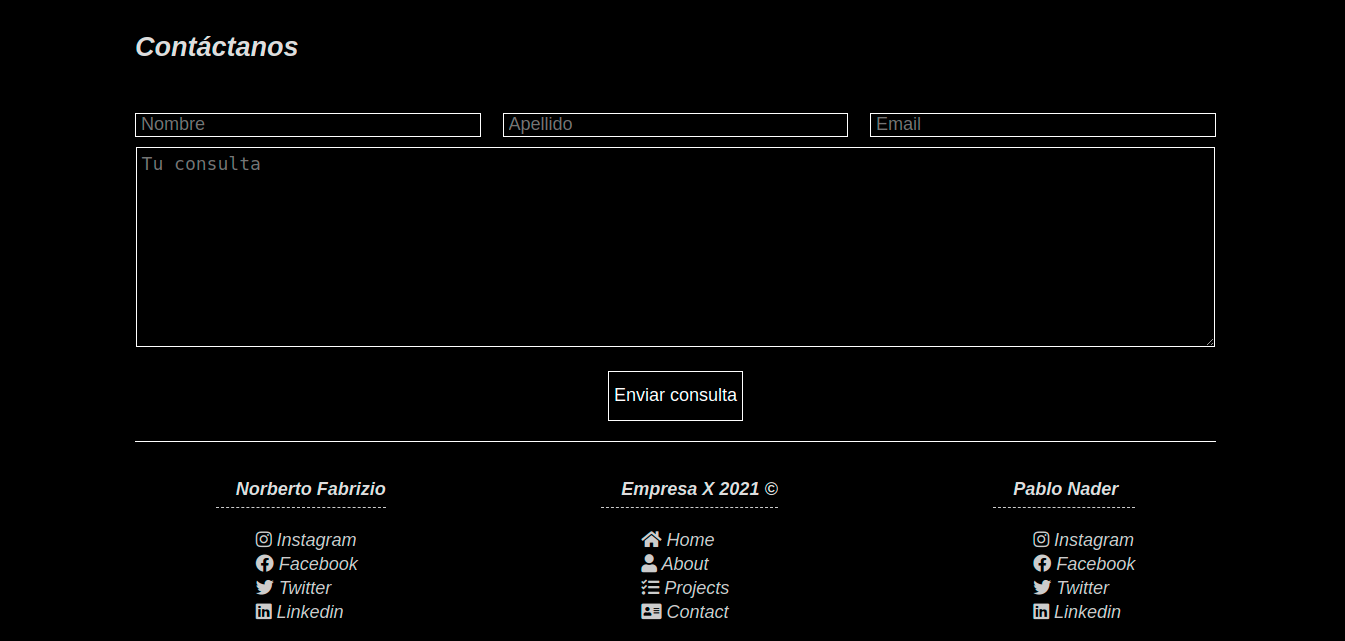
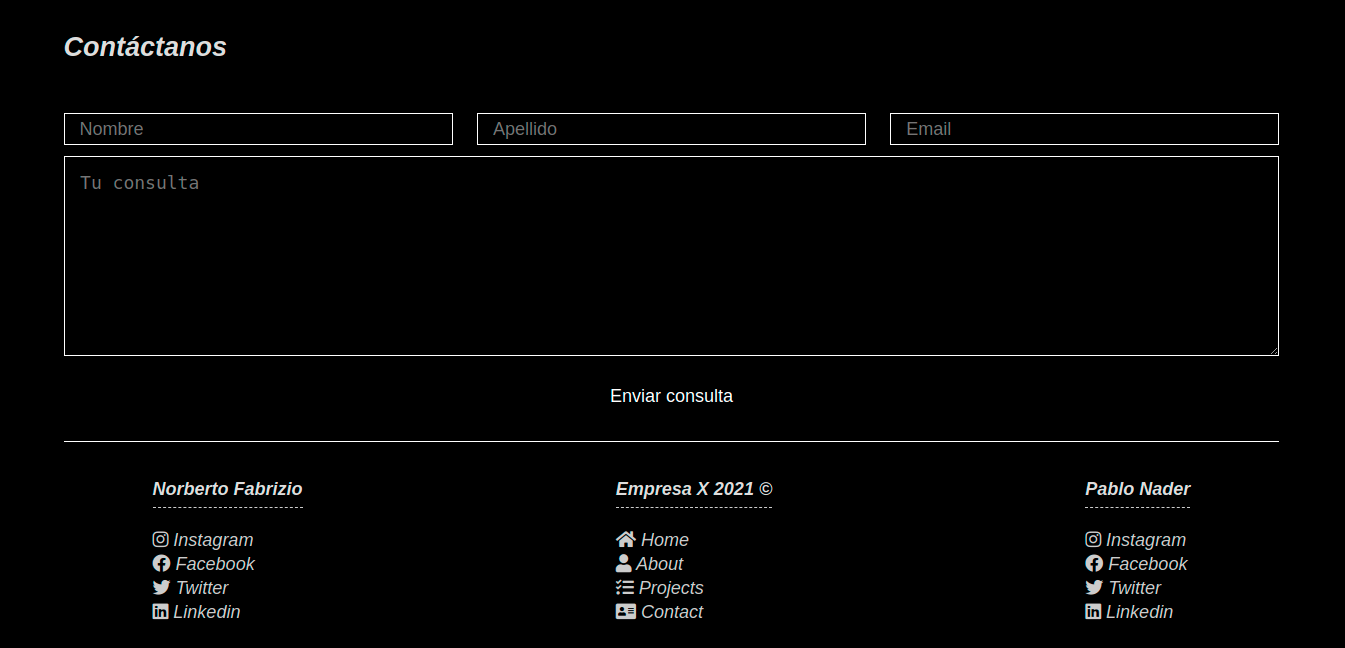
V1.1.0

diff --git a/index.html b/index.html
@@ -18,7 +18,7 @@
 </head>
 <body>
 	<div class="contenedor">
-		<!-- nav -->
+		<!-- header -->
 		<header class="header">
 			<nav class="navegacion">
 				<ul>
@@ -27,14 +27,21 @@
 							<img src="img/logo.png" alt="logo">
 						</a>
 					</li>
-					<li><a href="index.html">Home</a></li>
+					<li><a href="#home">Home</a></li>
 					<li><a href="#about">About</a></li>
 					<li><a href="#projects">Projects</a></li>
+					<li><a href="#cards">Cards</a></li>
 					<li><a href="#contact">Contact</a></li>
 				</ul>
 			</nav>
-			<div class="home">
-				<img src="img/code.jpg" alt="Homepage">
+			<div class="home" id="home">
+				<div class="jumbotron"></div>
+				<div class="suscripcion">
+					<form class="formulario-suscripcion" id="subscriptionform" autocomplete="off">
+						<input class="input-suscripcion" type="email" id="email-suscripcion" placeholder="Email" required>
+						<button class="btn-suscripcion" type="submit" id="suscribirse">Suscribirme</button>
+					</form>
+				</div>
 			</div>
 		</header>
 		<!-- about -->
@@ -76,7 +83,7 @@
 		</section>
 		<!-- cards -->
 		<section class="tarjetas" id="cards">
-			<h2>Cards</h2>
+			<h2>Tarjetas</h2>
 			<div class="cards-box">
 				<div class="card">
 					<div class="card-header">
@@ -129,25 +136,25 @@
 			<h2>Contáctanos</h2>
 			<form class="formulario" id="queryform" autocomplete="off">
 				<div class="campo">
-					<input class="input" type="text" placeholder="Nombre" required id="username">
+					<input class="query-input" type="text" placeholder="Nombre" required id="username">
 				</div>
 				<div class="campo">
-					<input class="input" type="text" placeholder="Apellido" required id="userlastname">
+					<input class="query-input" type="text" placeholder="Apellido" required id="userlastname">
 				</div>
 				<div class="campo">
-					<input class="input" type="email" placeholder="Email" required id="useremail">
+					<input class="query-input" type="email" placeholder="Email" required id="useremail">
 				</div>
 				<div class="campo-textarea">
-					<textarea class="textarea" name="consulta" id="userquery" cols="30" rows="10" placeholder="Tu consulta" required></textarea>
+					<textarea class="query-textarea" name="consulta" id="userquery" cols="30" rows="10" placeholder="Tu consulta" required></textarea>
 				</div>
-				<div class="boton">
-					<button type="submit" id="sendform">Enviar consulta</button>
+				<div class="campo-enviar">
+					<button class="btn-consulta" type="submit" id="sendform">Enviar consulta</button>
 				</div>
 			</form>
 		</section>
 		<!-- footer -->
 		<footer class="footer" id="footer">
-			<div>
+			<div class="company-info">
 				<ul class="footer-list">
 					<li> Norberto Fabrizio</li>
 					<li> 
@@ -172,7 +179,7 @@
 					</li>
 				</ul>
 			</div>
-			<div>
+			<div class="company-info">
 				<ul class="footer-list">
 					<li> Empresa X 2021 &copy;</li>
 					<li> 
@@ -197,7 +204,7 @@
 					</li>
 				</ul>
 			</div>
-			<div>
+			<div class="company-info">
 				<ul class="footer-list">
 					<li> Pablo Nader</li>
 					<li> 

diff --git a/js/main.js b/js/main.js
@@ -1,11 +1,20 @@
 document.addEventListener('DOMContentLoaded', () => {
-  const formulario = document.querySelector('#queryform')
-  if (formulario) {
+  const queryForm = document.querySelector('#queryform')
+  const subsForm = document.querySelector('#subscriptionform')
+  const noRef = document.querySelectorAll('a[href="#"]')
+  if (noRef) {
+    Array.from(noRef).forEach(anchor => {
+      anchor.addEventListener('click', e => {
+        e.preventDefault()
+      })
+    })
+  }
+  if (queryForm) {
     const username = document.querySelector('#username')
     const userlastname = document.querySelector('#userlastname')
     const useremail = document.querySelector('#useremail')
     const userquery = document.querySelector('#userquery')
-    formulario.addEventListener('submit', e => {
+    queryForm.addEventListener('submit', e => {
       e.preventDefault()
       if (username.value.trim() === '' ||
           userlastname.value.trim() === '' ||
@@ -14,13 +23,28 @@ document.addEventListener('DOMContentLoaded', () => {
         alert('Los campos no debe quedar vacíos')
       } else {
         const btnSend = document.querySelector('#sendform')
-        btnSend.style.width = '150px'
-        btnSend.innerHTML = 'Enviando su consulta...'
+        btnSend.innerHTML = 'Enviando...'
         setTimeout(() => {
           btnSend.setAttribute('disabled', 'true')
-          btnSend.style.width = '250px'
-          btnSend.innerHTML = 'Consulta enviada. <br>¡Muchas gracias!'
-          formulario.reset()
+          btnSend.innerHTML = '¡Consulta enviada!'
+          queryForm.reset()
+        }, 3000)
+      }
+    })
+  }
+  if (subsForm) {
+    const usersubemail = document.querySelector('#email-suscripcion')
+    subsForm.addEventListener('submit', e => {
+      e.preventDefault()
+      if (usersubemail.value.trim() === '') {
+        alert('Ingresa tu email para poder suscribirte')
+      } else {
+        const btnSend = document.querySelector('#suscribirse')
+        btnSend.innerHTML = 'Registrándo...'
+        setTimeout(() => {
+          btnSend.setAttribute('disabled', 'true')
+          btnSend.innerHTML = '¡Suscrito!'
+          subsForm.reset()
         }, 3000)
       }
     })

diff --git a/css/contact.css b/css/contact.css
@@ -1,5 +1,5 @@
 /* contacto */
-form {
+.formulario {
   display: flex;
   justify-content: space-between;
   flex-wrap: wrap;
@@ -13,45 +13,44 @@ form {
   margin-top: 10px;
 }
 
-input,
-textarea,
-button {
-  font-size: 18px;
+.campo-enviar {
+  margin: 10px auto 0 auto;
+}
+
+.query-input,
+.query-textarea {
+  padding: 15px;
   height: 24px;
-  padding: 5px;
   color: #fff;
   background-color: transparent;
   border: 1px solid #fff;
   width: 100%;
-  border-radius: 0;
 }
 
-input:focus-visible, 
-textarea:focus-visible {
+.query-input:focus-visible, 
+.query-textarea:focus-visible {
   outline: 2px solid #fff;
   border-radius: 0;
 }
 
-textarea {
- min-height: 200px;
+.query-textarea {
+  min-height: 200px;
 }
 
-.boton {
-  margin:auto;
-  margin-top: 20px;
-}
-
-.boton>button {
-  margin:auto;
+.btn-consulta {
+  margin: auto;
   height: 50px;
   min-width: 100px;
+  padding: 10px;
+  transition: all .3s ease;
+  color: #fff;
+  background-color: transparent;
 }
 
-.boton>button:hover {
-  outline: 2px solid #fff;
-  font-weight: bold;
+.btn-consulta:hover {
   cursor: pointer;
-  background-color: rgb(255, 255, 255, .1);
+  color: #fff;
+  background-color: orangered;
 }
 
 /* media queries */

diff --git a/css/nav.css b/css/nav.css
@@ -3,7 +3,6 @@ nav {
   width: 100%;
   background-color: orangered;
   padding: 15px 0;
-  text-align: center;
 }
 
 .navegacion>ul {
@@ -17,6 +16,48 @@ nav {
   margin: auto;
   list-style-type: none;
   font-size: 1.2rem;
+}
+
+/* jumbotron */
+.home {
+  position: relative;
+}
+
+.jumbotron {
+  background-image: url(../img/code.jpg);
+  background-size: cover;
+  background-repeat: no-repeat;
+  height: 90vh;
+  opacity: 20%;
+}
+
+.suscripcion form {
+  display: flex;
+  justify-content: space-between;
+  align-items: center;
+  position: absolute;
+  top: 50%;
+  left: 50%;
+  transform: translate(-50%, -50%);
+}
+
+.input-suscripcion {
+  margin: 0 1rem;
+  padding: 10px;
+}
+
+.btn-suscripcion {
+  height: auto;
+  color: #000;
+  background-color: #aaa;
+  padding: 10px;
+  transition: all .3s ease;
+}
+
+.btn-suscripcion:hover {
+  cursor: pointer;
+  color: #fff;
+  background-color: orangered;
 }
 
 /* media queries */

diff --git a/css/global.css b/css/global.css
@@ -1,18 +1,24 @@
 /* globales */
 * {
-    border: 0;
-    margin: 0;
-    padding: 0;
-    box-sizing: border-box;
+  border: 0;
+  margin: 0;
+  padding: 0;
+  box-sizing: border-box;
 }
 
 html {
-    font-size: 18px;
+  font-size: 18px;
+  scroll-behavior: smooth;
 }
 
 body {
-    font-family: 'Segoe UI', Tahoma, Geneva, Verdana, sans-serif;
-    font-size: 14px;
-    background-color: #000;
-    color: #ddd;
+  font-family: 'Segoe UI', Tahoma, Geneva, Verdana, sans-serif;
+  background-color: #000;
+  color: #ddd;
+}
+
+input,
+textarea,
+button {
+  font-size: 1rem;
 }

diff --git a/css/footer.css b/css/footer.css
@@ -4,7 +4,7 @@
   justify-content: space-evenly;
   font-size: 1rem;
   font-style: italic;
-  text-align: center;
+  /*text-align: center;*/
   margin-bottom: 20px;
 }
 
@@ -21,7 +21,6 @@
 
 .footer-list>li {
   line-height: 24px;
-  text-indent: 20px;
 }
 
 .footer-list>li:first-child {
@@ -34,6 +33,10 @@
 .footer-list>li>a {
   font-weight: normal;
   color: #ccc;
+}
+
+.company-info {
+  margin: 0 auto 10px auto;
 }
 
 /* media queries */

diff --git a/css/projects.css b/css/projects.css
@@ -1,4 +1,8 @@
 /* proyectos */
+div.project {
+  background-size: cover;
+}
+
 #projects>div {
   margin: 20px 0;
   display: flex;
@@ -24,6 +28,7 @@
   height: 60px;
   margin-top: 70px;
   background-color: rgb(0, 0, 0, .3);
+  transition: all .2s ease;
 }
 
 .desc:hover {

diff --git a/css/styles.css b/css/styles.css
@@ -26,7 +26,7 @@ img {
 
 /* secciones */
 section {
-  width: 80%;
+  width: 90%;
   margin: 30px auto;
   min-height: 250px;
   border-bottom: 1px solid #fff;

diff --git a/css/cards.css b/css/cards.css
@@ -27,6 +27,7 @@
   text-align: center;
 }
 
+/* media queries */
 @media (max-width: 768px) {
   .cards-box {
     flex-direction: column;

diff --git a/css/home.css b/css/home.css
@@ -1,7 +1,5 @@
 /* home */
-.home {
-  opacity: 30%;
-}
+.home {}
 
 /* media queries */
 @media (max-width: 768px) {}

diff --git a/README.md b/README.md
@@ -11,7 +11,7 @@
 
 <br>
 
-![Header](screenshots/home.png "Header")
+![Header](screenshots/home.png "Header con opción de suscripción")
 
 ![Proyectos](screenshots/projects.png "Proyectos")
 
